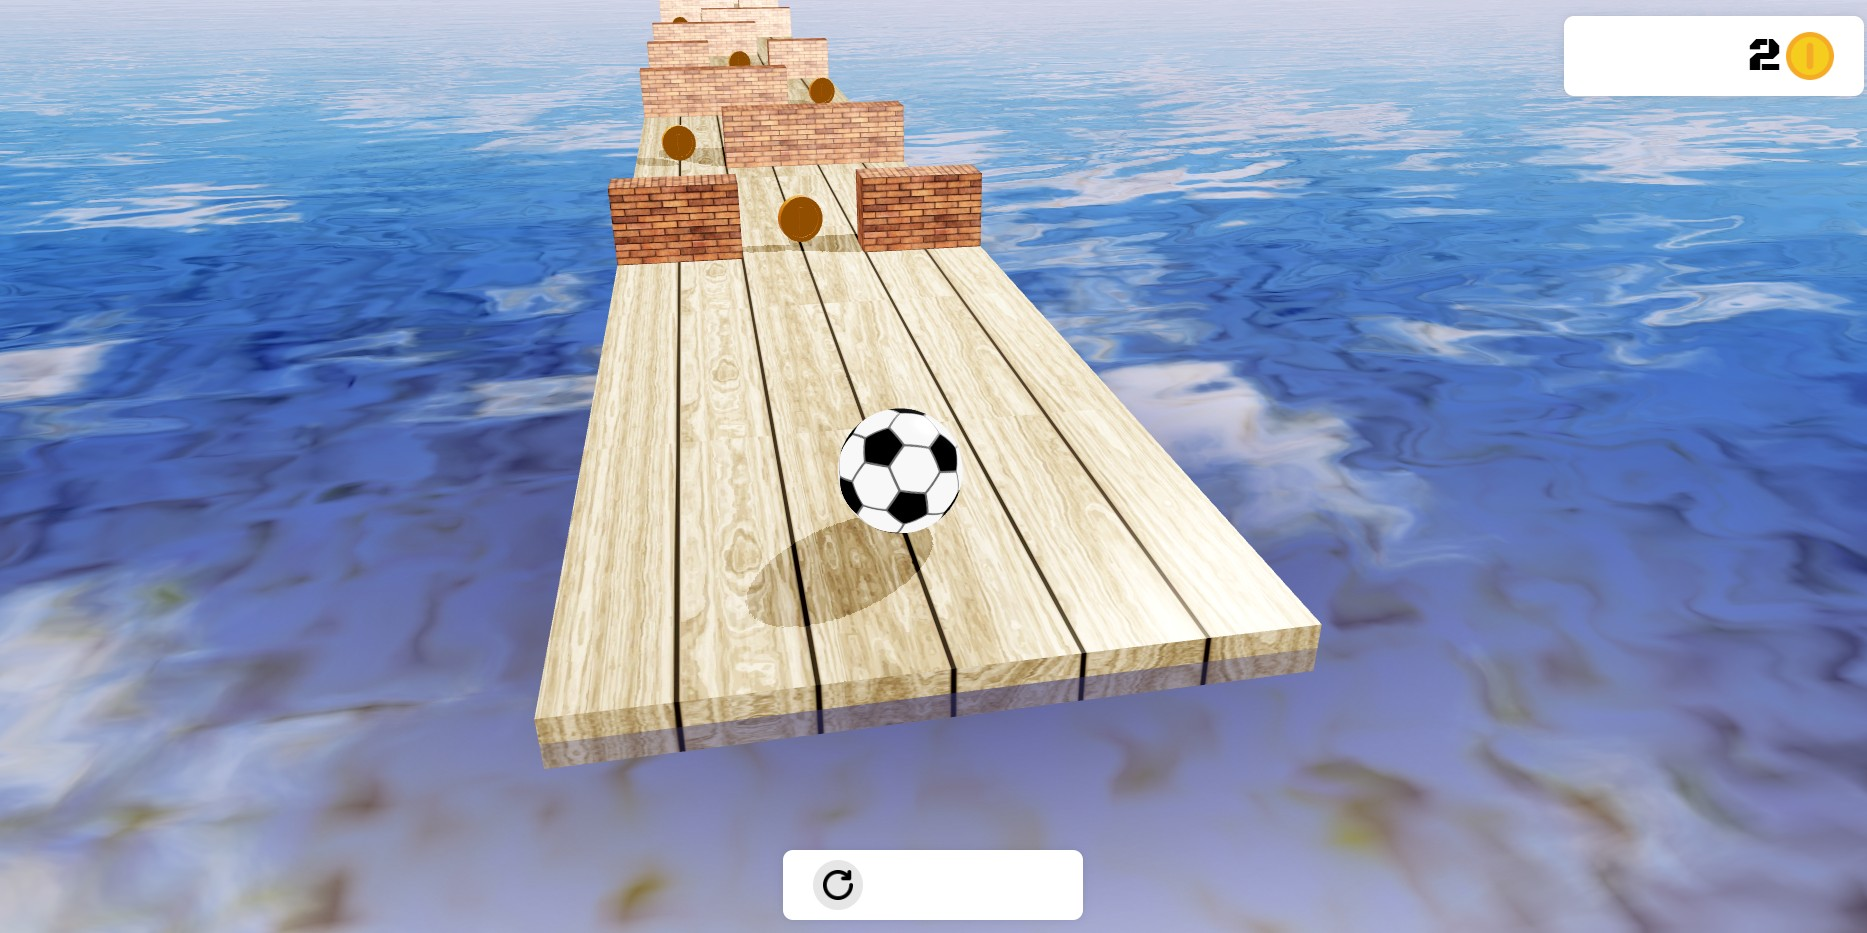
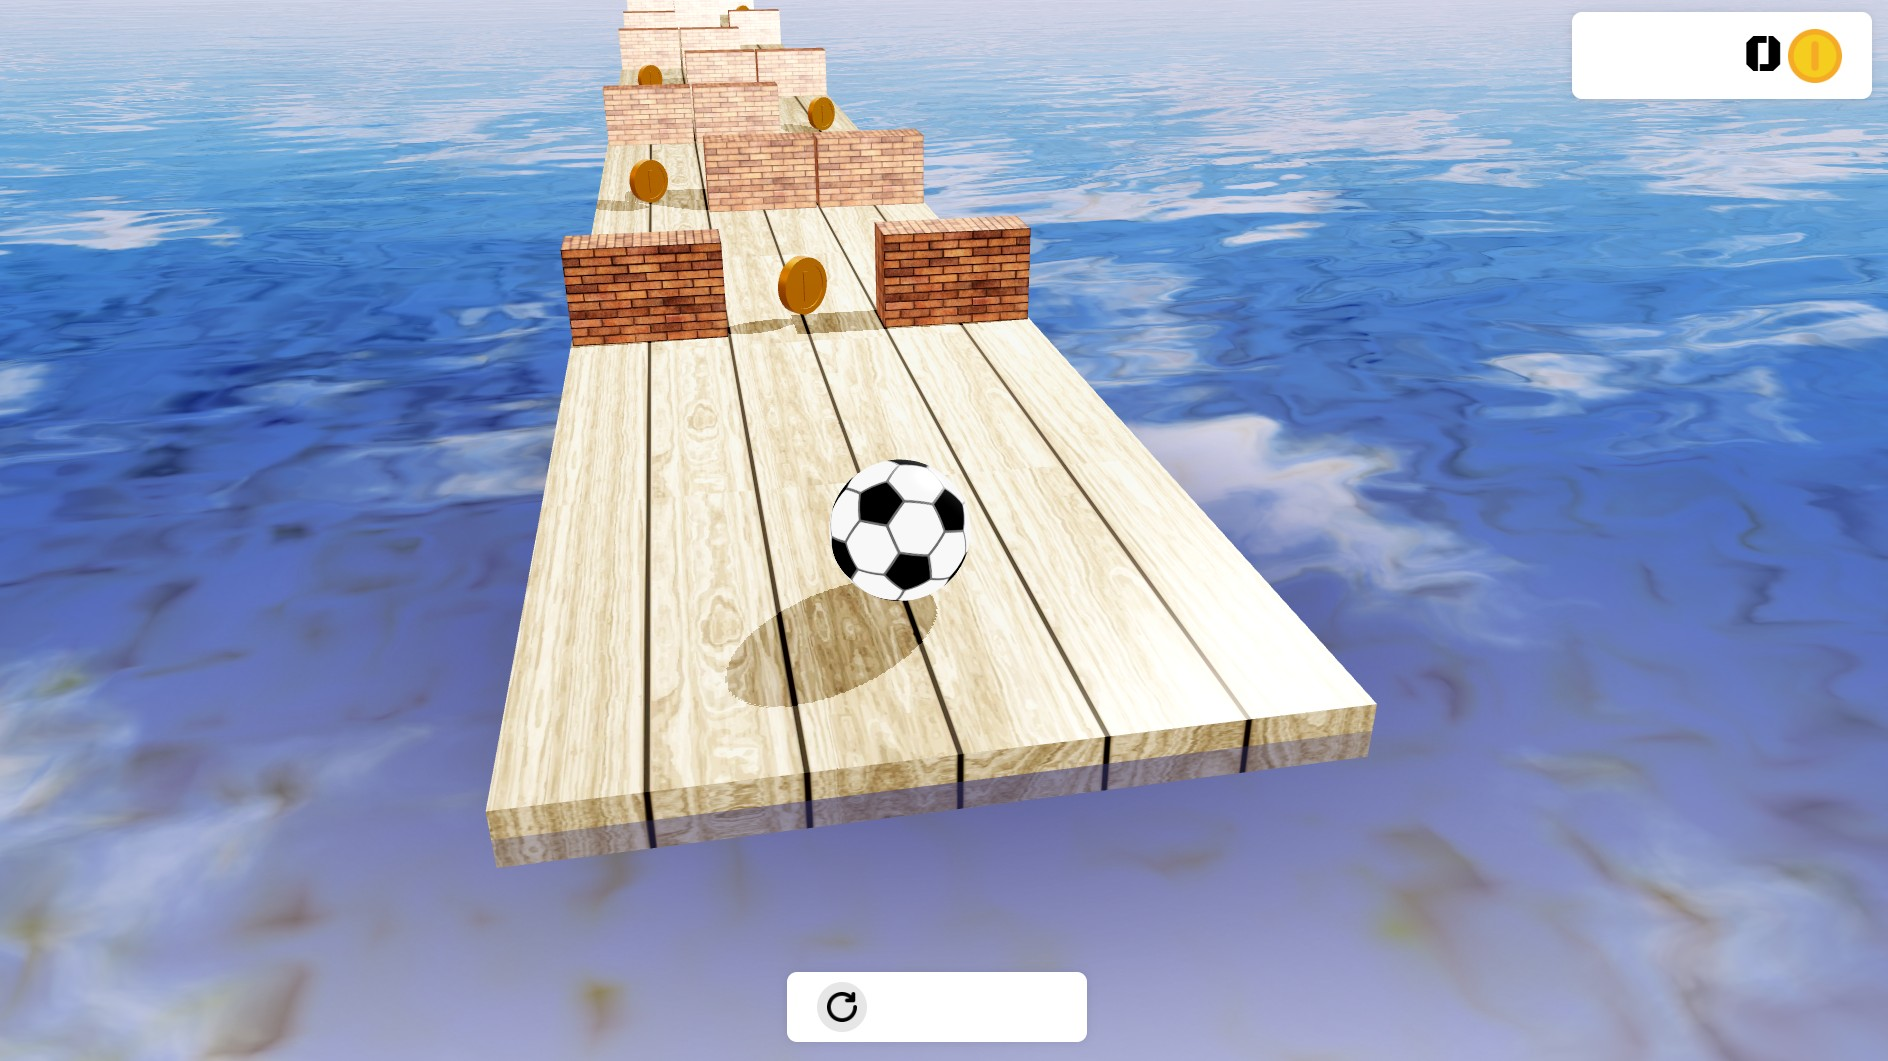
save

diff --git a/games/running-ball-babylonjs/src/Game.ts b/games/running-ball-babylonjs/src/Game.ts
@@ -36,7 +36,7 @@ export class Game {
   private static readonly SingleWallSize: Size3D = Object.freeze({
     height: Game.SinglePlatformSize.width / 3,
     depth: Game.SinglePlatformSize.width / 8,
-    width: Game.SinglePlatformSize.width / 3
+    width: (Game.SinglePlatformSize.width / 3) - 0.075
   });
   private static readonly ZeroVector = new Vector3(0, 0, 0);
   private static readonly StartSpeedOfMovingStraight = 6;
@@ -100,7 +100,7 @@ export class Game {
     this.gameStatus = GameStatus.Playing;
 
     this.scene.registerBeforeRender(() => {
-      this.checkSphereBoxCollision();
+      this.checkIfGameOver();
       this.checkCoinEarned();
     });
 
@@ -352,7 +352,11 @@ export class Game {
     return walls;
   }
 
-  private checkSphereBoxCollision(): void {
+  private checkIfGameOver(): void {
+    if (this.ball.getAbsolutePosition().y <= 0) {
+        this.gameOver();
+    }
+
     const check = (spherePos: Vector3, box: BoundingBox): boolean => {
       const min = box.minimumWorld;
       const max = box.maximumWorld;
